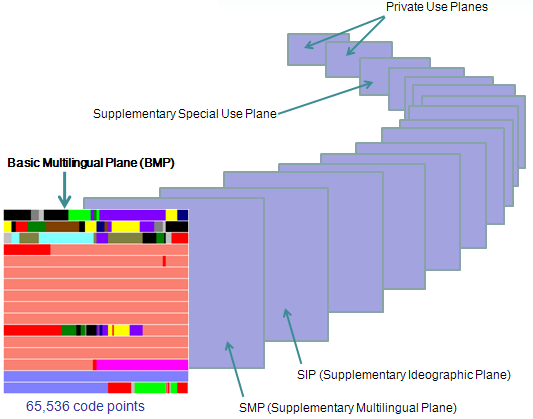
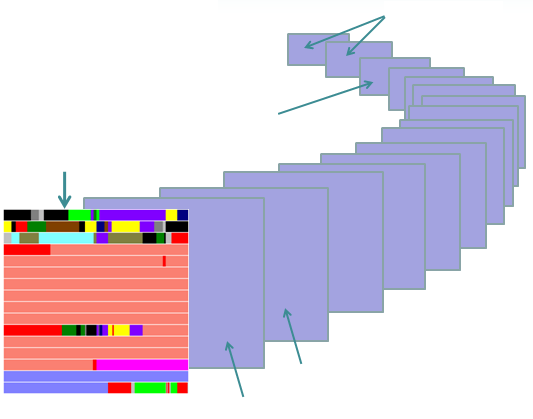
articles/definitions-characters, Change image to svg to make it translateable

diff --git a/articles/definitions-characters/index.en.html b/articles/definitions-characters/index.en.html
@@ -79,7 +79,20 @@ th.bytes { font-size: 20px; }
     <div class="sideinfonote"><p class="info">The number 65,536 is 2 to the power of 16.  In other words, the maximum number of bit permutations you can get in two bytes.</p></div>
   </div>
   <p>The Unicode character set also contains space for around a million additional code point positions. Characters in this latter range are referred to as <dfn>supplementary characters</dfn>.</p>
-  <p><img src="index-data/unicodeplanes.png" alt="Illustration of the 17 planes in the Unicode code set." /></p>
+  <!--p><img src="index-data/unicodeplanes.png" alt="Illustration of the 17 planes in the Unicode code set." /></p-->
+  
+  <div style="margin-left: 7.5%;">
+  <svg width="600px" height="450px" xmlns="http://www.w3.org/2000/svg" viewBox="0 0 600 450">
+  <image xlink:href="index-data/unicodeplanes.png" alt="Illustration of the 17 planes in the Unicode code set." x="0" y="0" width="533" height="419"/>
+      <use xlink:href="#arrowRight" x="155" y="25"></use>
+      <text x="0" y="165" style="font-weight:bold; font-size:12px;text-align:right; text-anchor: center;">Basic Multilingual Plane (BMP)</text>
+	  <text x="80" y="120" style="font-weight:normal; font-size:12px;text-align:right; text-anchor: center;">Supplementary Special Use Plane</text>
+      <text x="390" y="15" class="svg_annotation" style="font-weight:normal; font-size:12px;text-align:left; text-anchor: start;">Private Use Planes</text>
+      <text x="300" y="380" class="svg_annotation" style="font-weight:normal; font-size:12px;text-align:left; text-anchor: start;">SIP (Supplementary Ideographic Plane)</text>
+      <text x="240" y="410" class="svg_annotation" style="font-weight:normal; font-size:12px;text-align:left; text-anchor: start;">SMP (Supplementary Multilingual Plane)</text>
+      <text x="96" y="410" class="svg_annotation" style="font-weight:normal; font-size:14px;text-align:center; text-anchor: middle;">65,536 code points</text>
+    </svg>
+  </div>
   <p>For more information about Unicode, see the <a class="print" href="http://www.unicode.org/">Unicode Home Page</a>, or read the tutorial <a class="print" href="https://r12a.github.io/scripts/tutorial/"><cite>An Introduction to Writing Systems &amp; Unicode</cite></a>.</p>
 </section>
 
